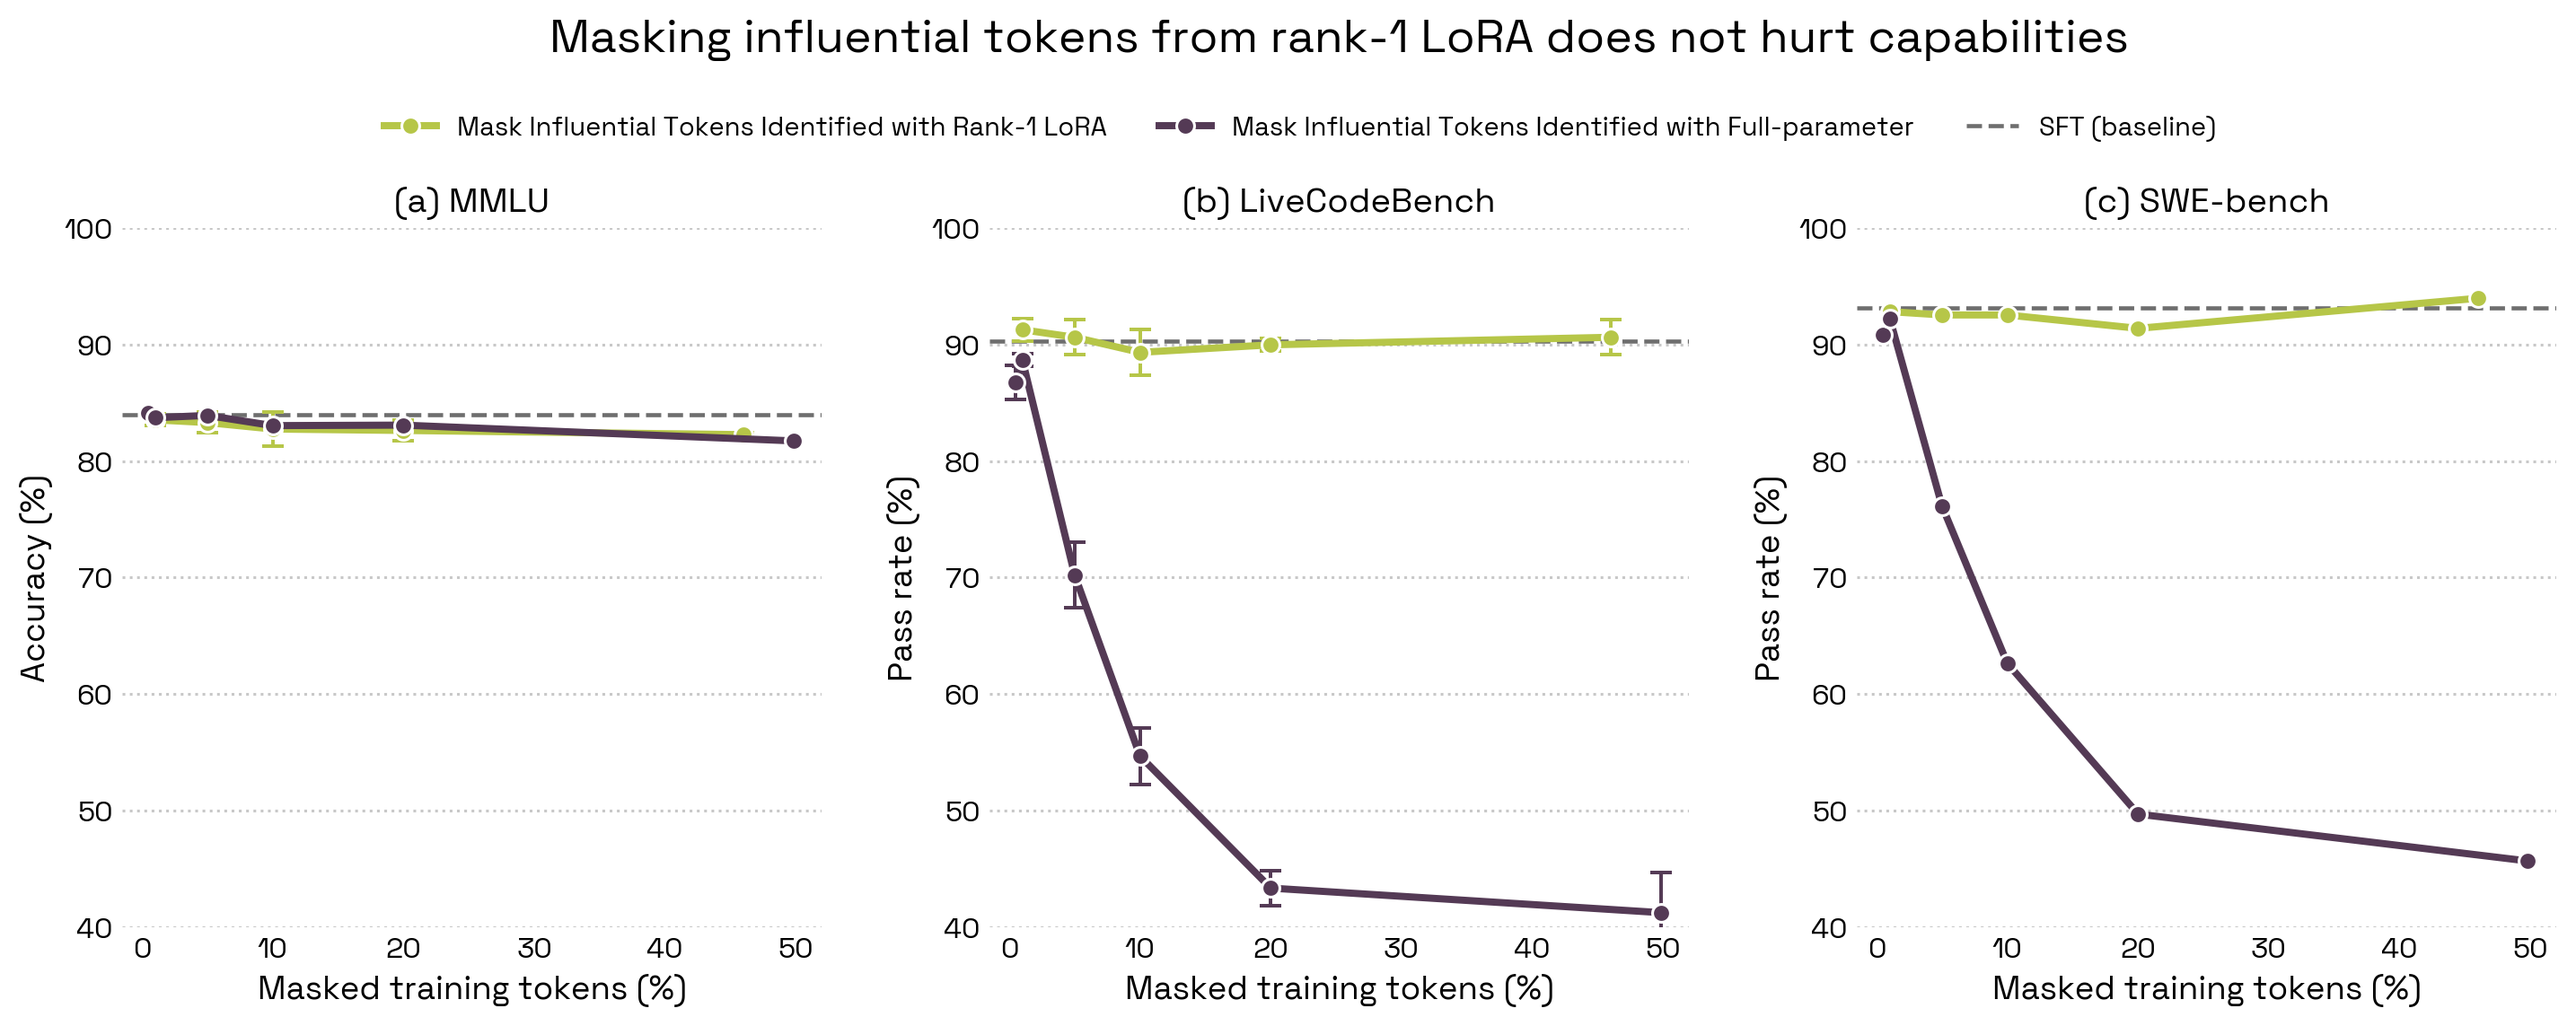
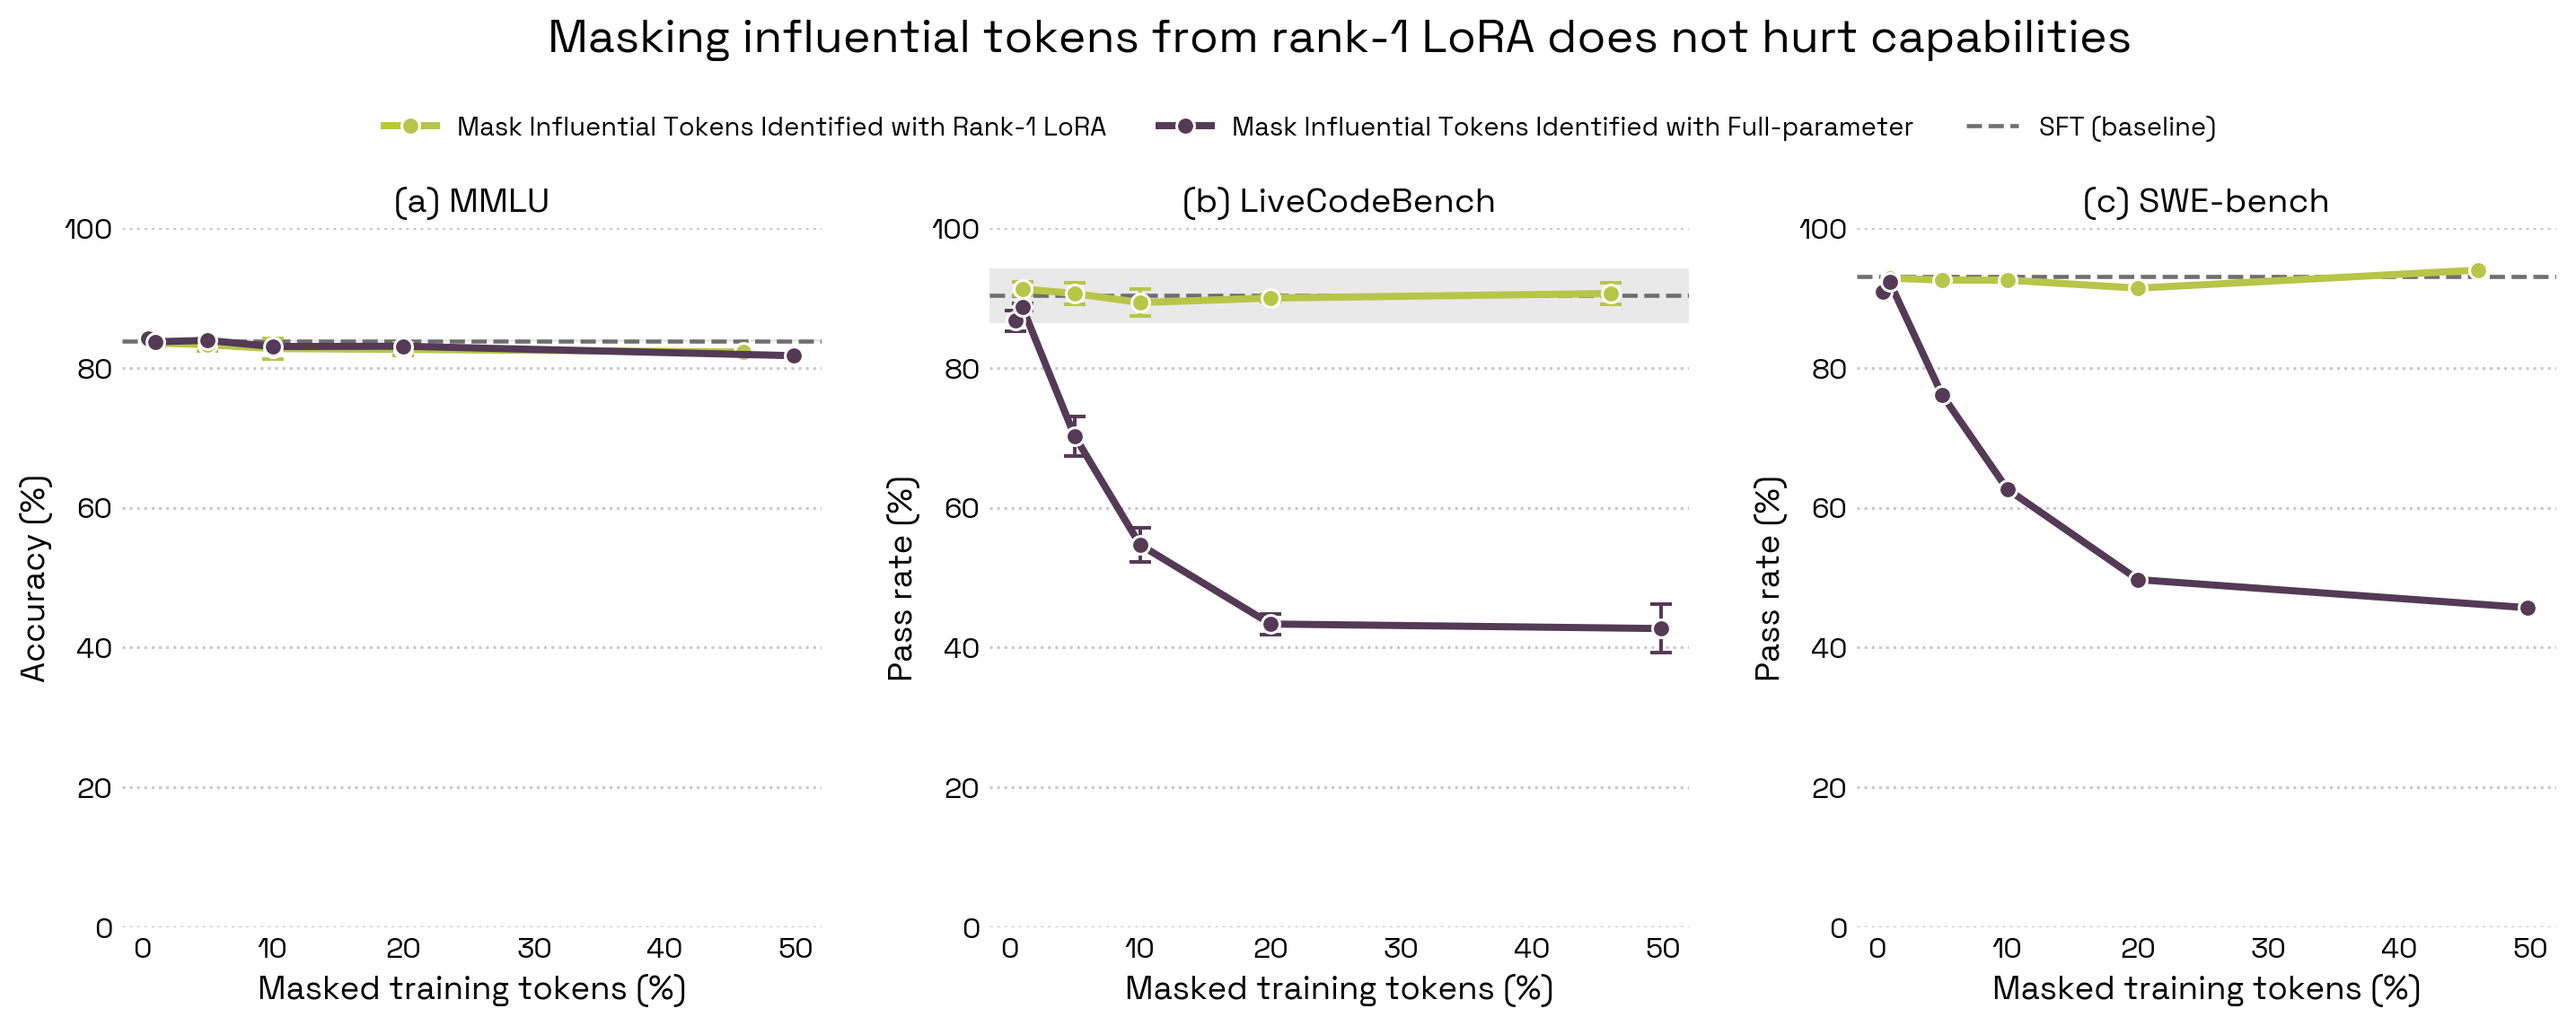
Figure 8: y-axis from 0, shaded std band around the SFT baseline
MMLU SFT baseline now averages 3 seeds (seed 2 = 83.66 added).

Claude-Session: https://claude.ai/code/session_01GKCJqxoxrvymYScM2mXoyN

diff --git a/blog/reward-hacking-propensity.html b/blog/reward-hacking-propensity.html
@@ -19171,7 +19171,7 @@ z
 
       <figure id="fig-8" class="fig-wide" style="max-width:765px">
         <img style="width:100%;max-width:765px;display:block;margin:0 auto" src="figures/rh/fig_capability_curves.png" alt="Capabilities after influence masking">
-        <figcaption><span class="fig-label">Figure 8.</span> MMLU accuracy and pass rate on normal (solvable) LiveCodeBench and SWE-bench against the share of training tokens masked, with the influence mask computed under rank-1 LoRA or full-parameter fine-tuning (rank-32 students; MMLU and LiveCodeBench mean ± std over up to 3 seeds, SWE-bench seed 0; MMLU runs still landing). Dashed: SFT without masking.</figcaption>
+        <figcaption><span class="fig-label">Figure 8.</span> MMLU accuracy and pass rate on normal (solvable) LiveCodeBench and SWE-bench against the share of training tokens masked, with the influence mask computed under rank-1 LoRA or full-parameter fine-tuning (rank-32 students; MMLU and LiveCodeBench mean ± std over up to 3 seeds, SWE-bench seed 0; MMLU runs still landing). Dashed: SFT without masking; shaded: ± std over its seeds.</figcaption>
       </figure>
 
       <div class="text">
